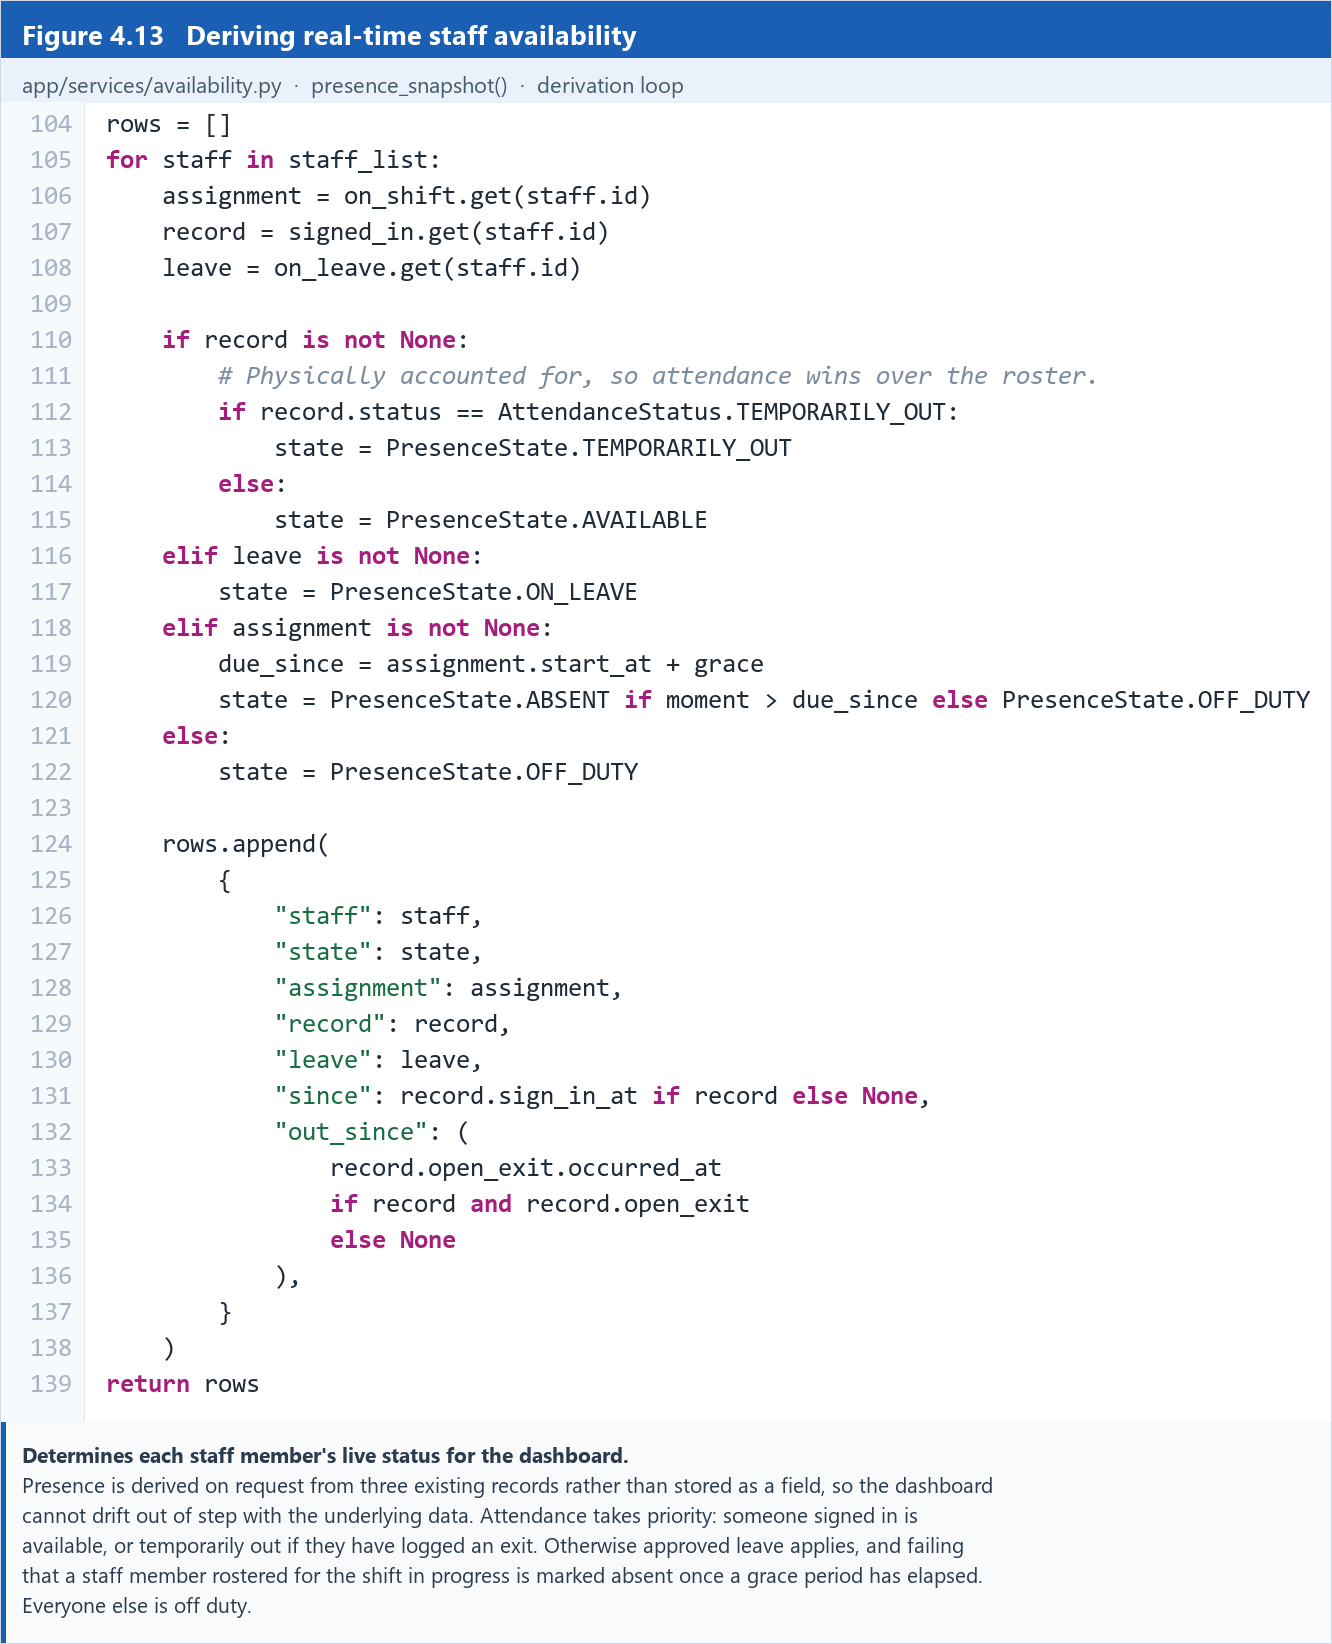
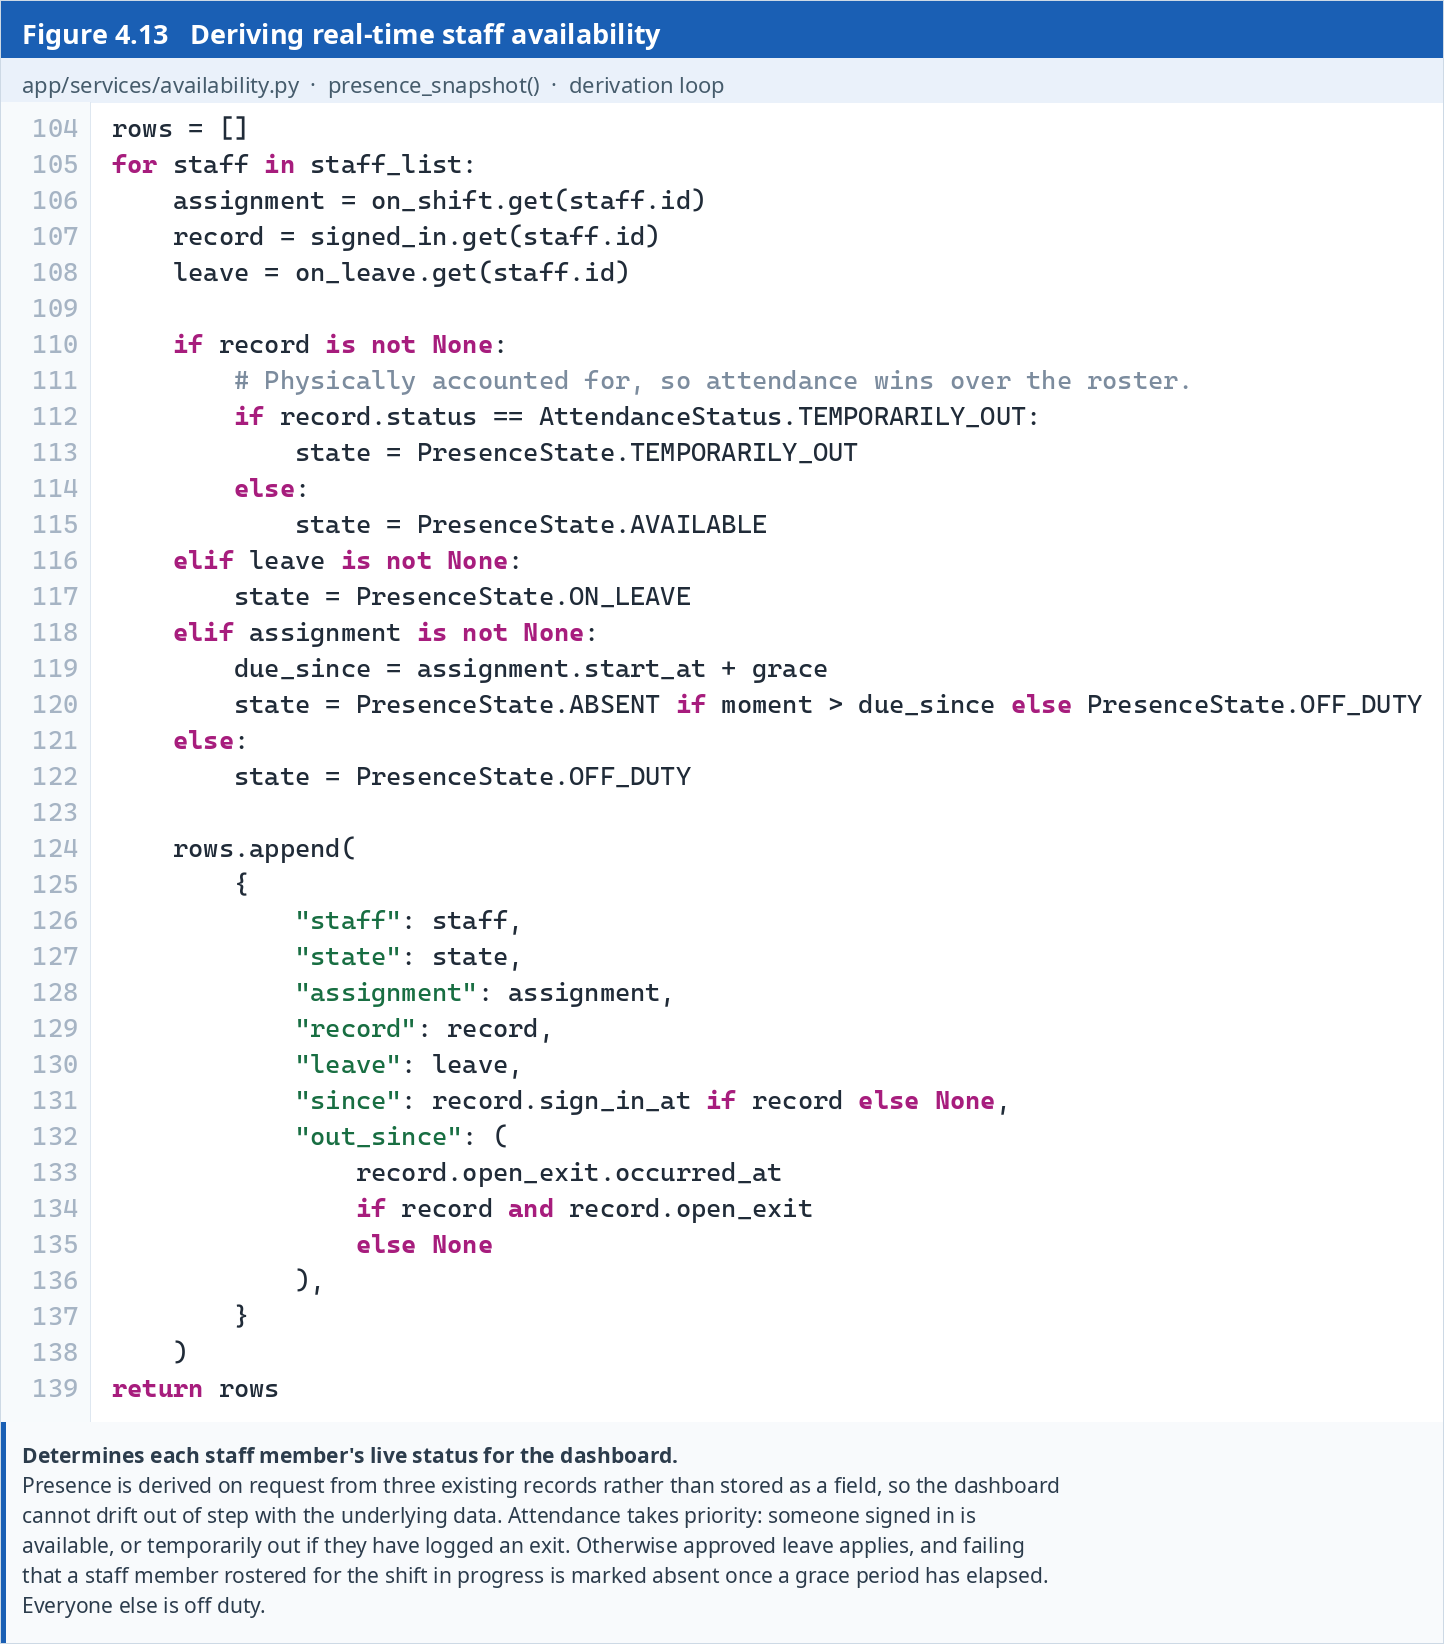
Regenerate the thesis code figures, and let the renderer run off Windows
The renderer loaded Consolas and Segoe UI straight from C:\Windows\Fonts, so
the figures could only be regenerated on Windows, and five of them were stale
after the contracted-week change: 4.6, 4.7, 4.8, 4.10 and 4.11 carried old
line numbers, old shift times and old captions.

_render_code.py now uses the Windows fonts where present and otherwise falls
back to the nearest open equivalents: Cascadia Mono, Microsoft's open-source
coding font, for code, and Noto Sans for headings and captions. Output on
Windows is unchanged. Cascadia ships as one variable-weight file with no
italic, so weights are chosen by name and comments, which already have their
own colour, use the regular weight. With neither font set available it now
stops with an install instruction rather than a bare OSError.

All ten figures were regenerated together on Linux, so they match each
other. Checked visually: 4.6, 4.8 and 4.11 render with the new line ranges
(L142-186, L278-313, L115-185), 06:00 shift times, and captions matching the
code.

docs/figures/README.md: corrected the image sizes, and added how and where to
regenerate, including that the Windows and fallback font sets differ slightly.

Changed region(s): [[0.0, 0.0, 0.985, 0.9927], [0.2155, 0.5274, 0.708, 0.7755], [0.2462, 0.4653, 0.4617, 0.4964]]

diff --git a/docs/_render_code.py b/docs/_render_code.py
@@ -46,23 +46,51 @@ BUILTINS = {
     "enumerate", "zip", "abs", "round", "type", "super", "property", "hasattr",
 }
 
-FONT_DIR = pathlib.Path(r"C:\Windows\Fonts")
 SIZE = 26
 LINE_H = 36
 PAD_X = 22
 
+# Consolas and Segoe UI on Windows. Elsewhere, the closest open equivalents:
+# Cascadia Mono, Microsoft's open-source coding font, for the code, and Noto
+# Sans for the headings and captions. On Debian or Ubuntu:
+#     sudo apt-get install fonts-cascadia-code fonts-noto-core
+# Cascadia ships as one variable-weight file with no italic, so weights are
+# picked by name, and comments, which already carry their own colour, use the
+# regular weight. Regenerate all ten figures on one machine so they match.
+WINDOWS_FONTS = pathlib.Path(r"C:\Windows\Fonts")
+CASCADIA = pathlib.Path("/usr/share/fonts/truetype/cascadia-code/CascadiaMono.ttf")
+NOTO = pathlib.Path("/usr/share/fonts/truetype/noto")
 
-def _font(name, size=SIZE):
-    return ImageFont.truetype(str(FONT_DIR / name), size)
+
+def _cascadia(weight, size):
+    font = ImageFont.truetype(str(CASCADIA), size)
+    font.set_variation_by_name(weight)
+    return font
 
 
-REG = _font("consola.ttf")
-BOLD = _font("consolab.ttf")
-ITAL = _font("consolai.ttf")
-UI_BOLD = ImageFont.truetype(str(FONT_DIR / "segoeuib.ttf"), 27)
-UI_REG = ImageFont.truetype(str(FONT_DIR / "segoeui.ttf"), 22)
-UI_SM = ImageFont.truetype(str(FONT_DIR / "segoeui.ttf"), 21)
-UI_SM_B = ImageFont.truetype(str(FONT_DIR / "segoeuib.ttf"), 21)
+def _load_fonts():
+    if (WINDOWS_FONTS / "consola.ttf").exists():
+        mono = lambda name, size=SIZE: ImageFont.truetype(str(WINDOWS_FONTS / name), size)
+        ui = lambda bold, size: ImageFont.truetype(
+            str(WINDOWS_FONTS / ("segoeuib.ttf" if bold else "segoeui.ttf")), size
+        )
+        return mono("consola.ttf"), mono("consolab.ttf"), mono("consolai.ttf"), ui
+    if CASCADIA.exists() and (NOTO / "NotoSans-Regular.ttf").exists():
+        ui = lambda bold, size: ImageFont.truetype(
+            str(NOTO / ("NotoSans-Bold.ttf" if bold else "NotoSans-Regular.ttf")), size
+        )
+        return _cascadia("Regular", SIZE), _cascadia("Bold", SIZE), _cascadia("Regular", SIZE), ui
+    raise SystemExit(
+        "No usable fonts: needs Consolas and Segoe UI (Windows), or Cascadia Mono "
+        "and Noto Sans (apt-get install fonts-cascadia-code fonts-noto-core)."
+    )
+
+
+REG, BOLD, ITAL, _ui = _load_fonts()
+UI_BOLD = _ui(True, 27)
+UI_REG = _ui(False, 22)
+UI_SM = _ui(False, 21)
+UI_SM_B = _ui(True, 21)
 
 CHAR_W = REG.getlength("M")
 

diff --git a/docs/figures/README.md b/docs/figures/README.md
@@ -49,9 +49,22 @@ contiguous code when it is not.
 3. If you prefer Word's own caption numbering, crop off the caption strip at the
    foot of the image and use the text below instead.
 
-Figure 4.11 is the widest at 1472 px. If it looks small at 15 cm, give it 16 cm
-and reduce that page's side margins slightly. Figure 4.7 is the shortest at 17
-lines and will sit comfortably beside body text.
+Figure 4.11 is both the widest (1459 px) and the tallest (61 lines, 2670 px). At
+15 cm wide it runs close to a full page, so give it a page of its own. Figure 4.7
+is the shortest at 17 lines and will sit comfortably beside body text.
+
+## Regenerating
+
+Run `python docs/generate_figures.py` after changing any illustrated function,
+or the line numbers in the figures stop matching the source. Figures 4.9, 4.11,
+4.13 and 4.14 select lines by number, so check their `keep` ranges in the
+script too; the others find their function by name.
+
+On Windows the code is set in Consolas and the captions in Segoe UI. Elsewhere
+the script falls back to Cascadia Mono and Noto Sans
+(`apt-get install fonts-cascadia-code fonts-noto-core`). The two sets look
+alike but not identical, so regenerate all ten on the same machine. The current
+set was generated on Linux with Cascadia Mono and Noto Sans.
 
 ---
 
